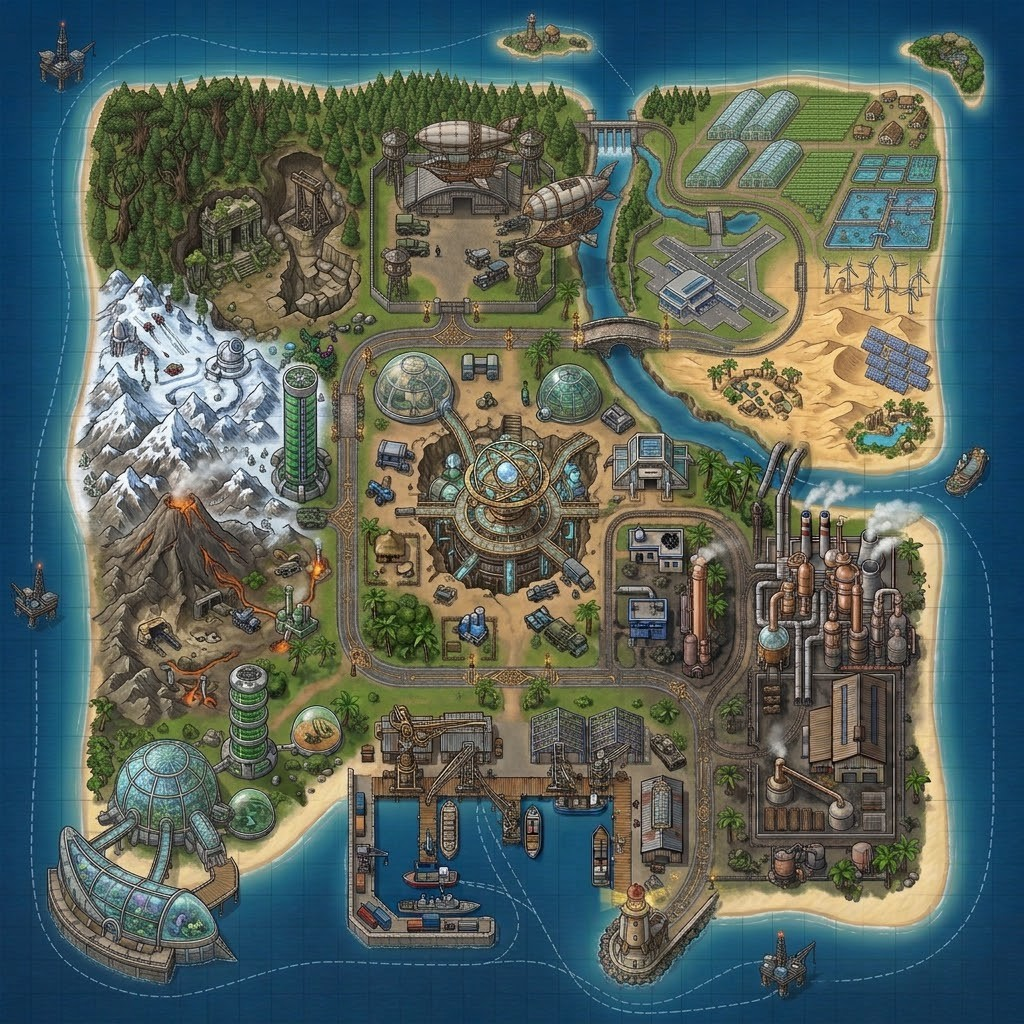
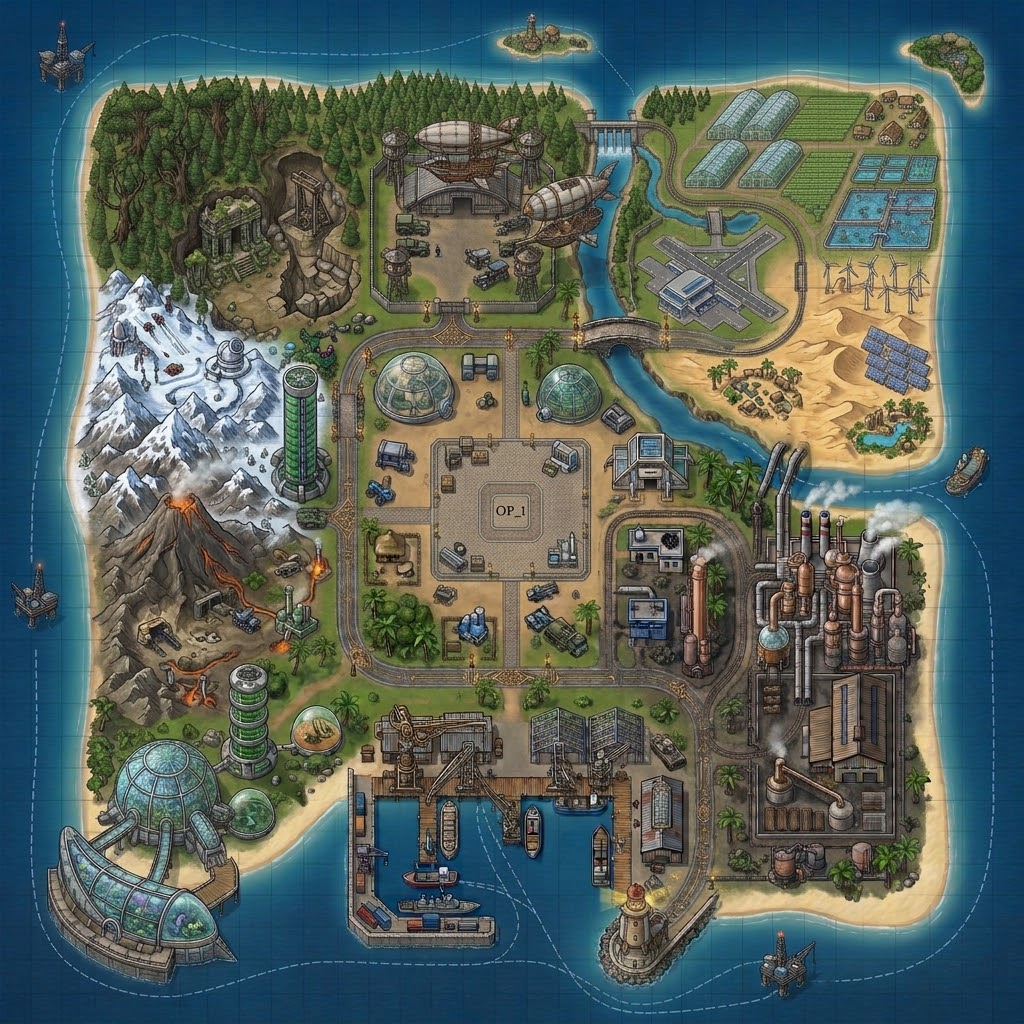
feat:update island map,clues and gameactivity

diff --git a/app/src/main/java/com/ripti/cluerush/ui/game/GameActivity.java b/app/src/main/java/com/ripti/cluerush/ui/game/GameActivity.java
@@ -218,7 +218,7 @@ public class GameActivity extends BaseActivity {
 
         boolean island = IslandSpace.isIsland(arena);
         if (island) {
-            player.setWalkMask(IslandSpace.walkMask(this));
+           // player.setWalkMask(IslandSpace.walkMask(this));
         }
 
         if (island) {
